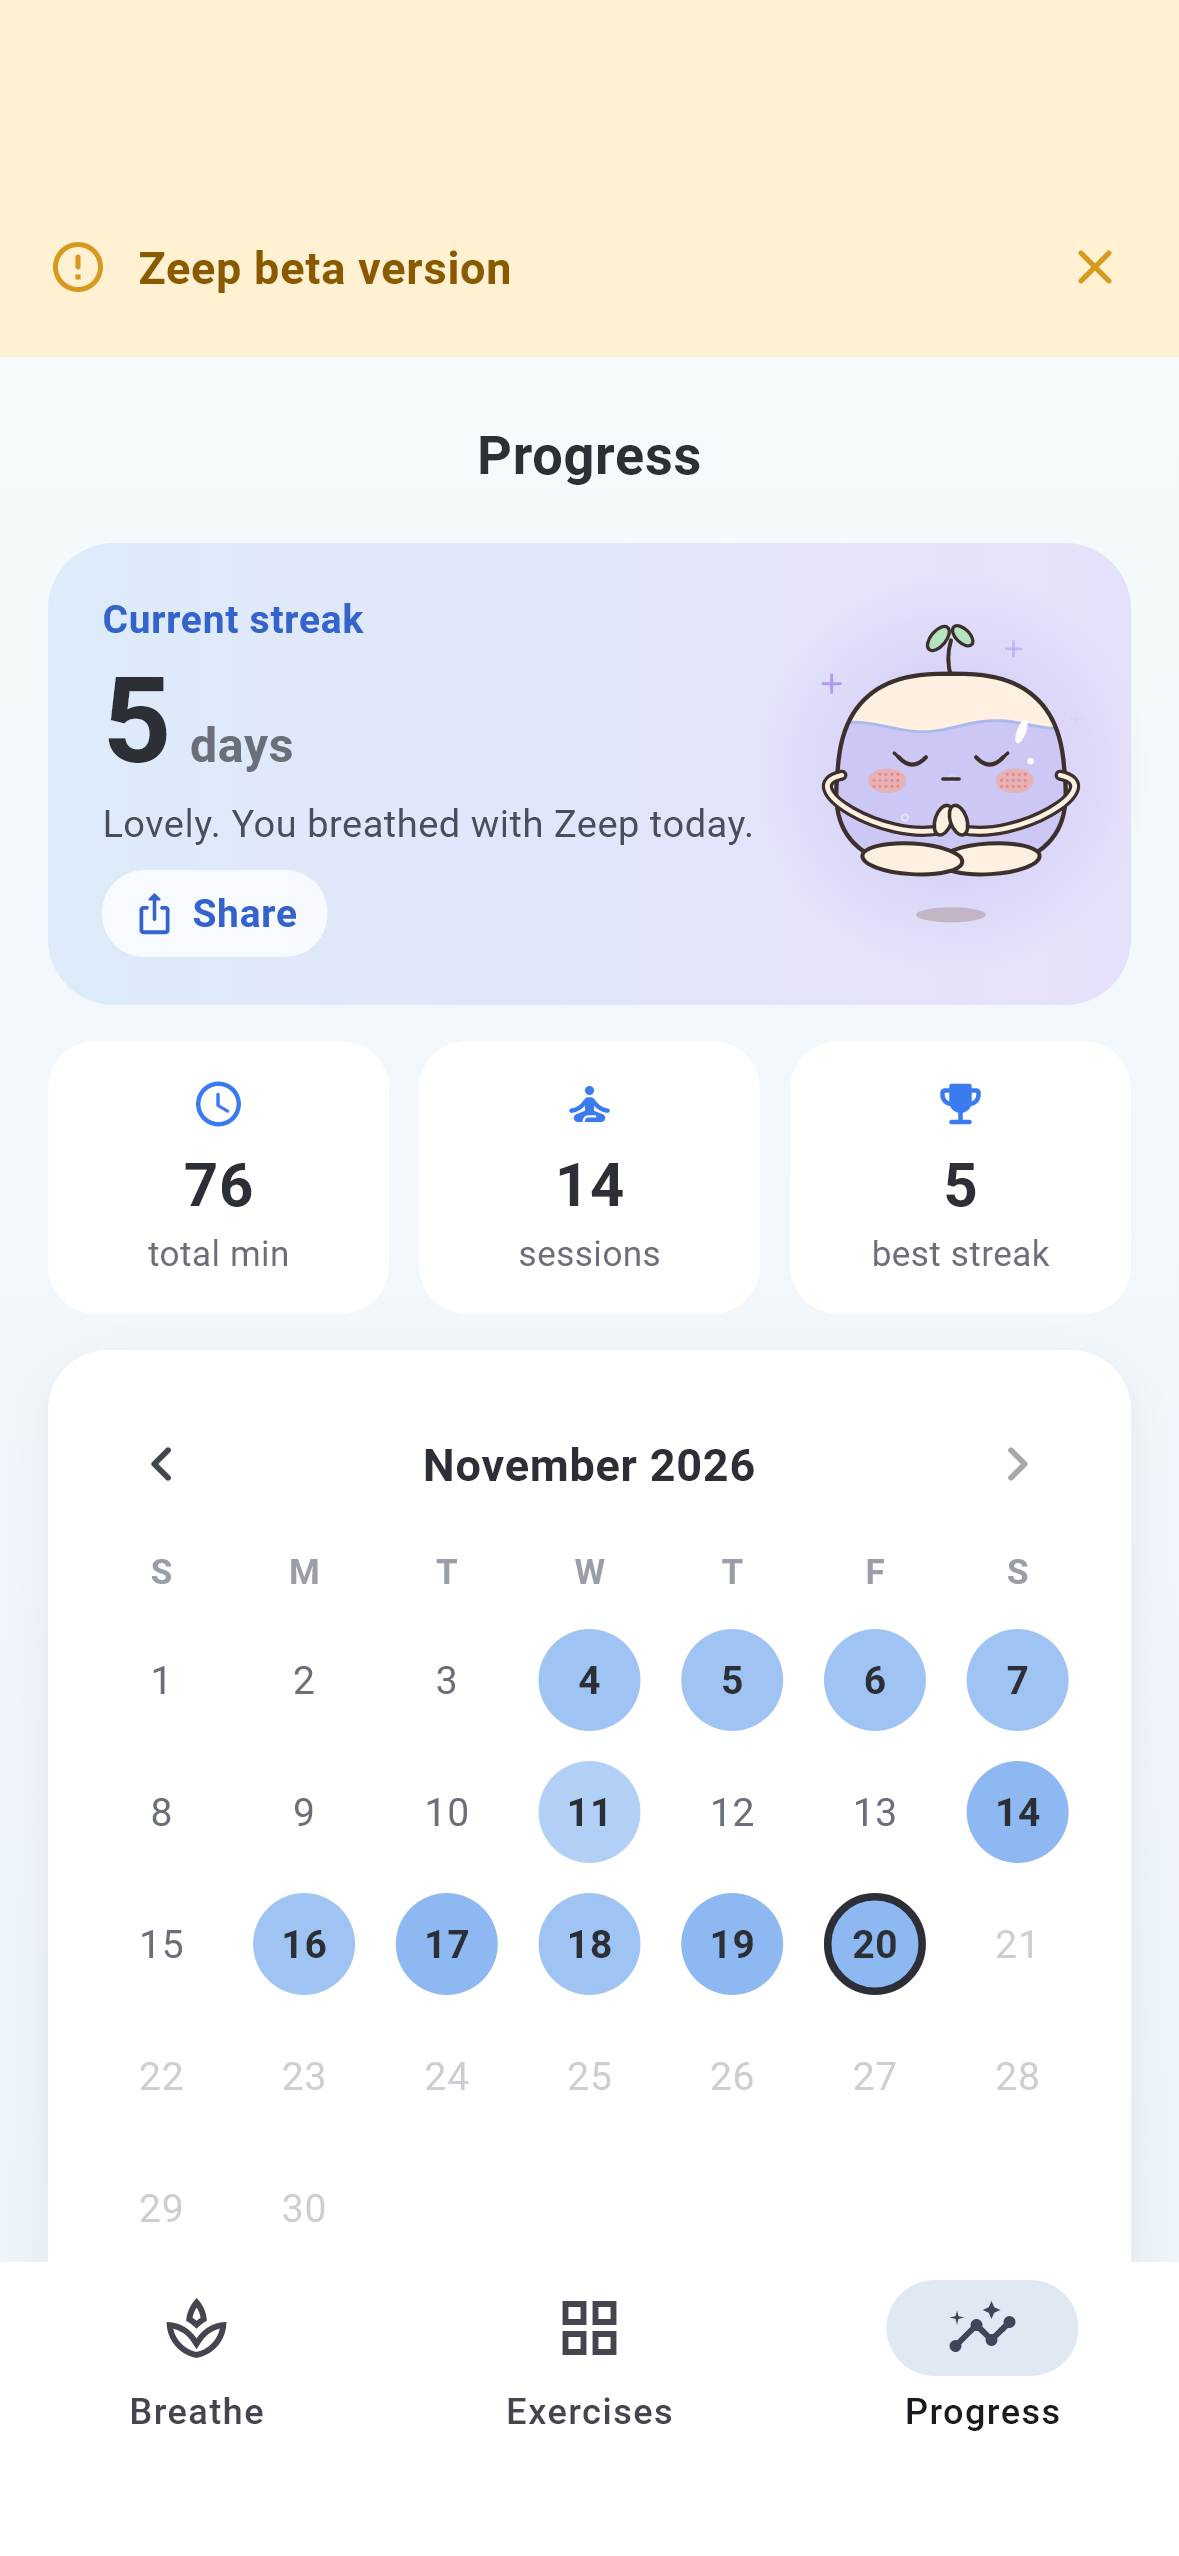
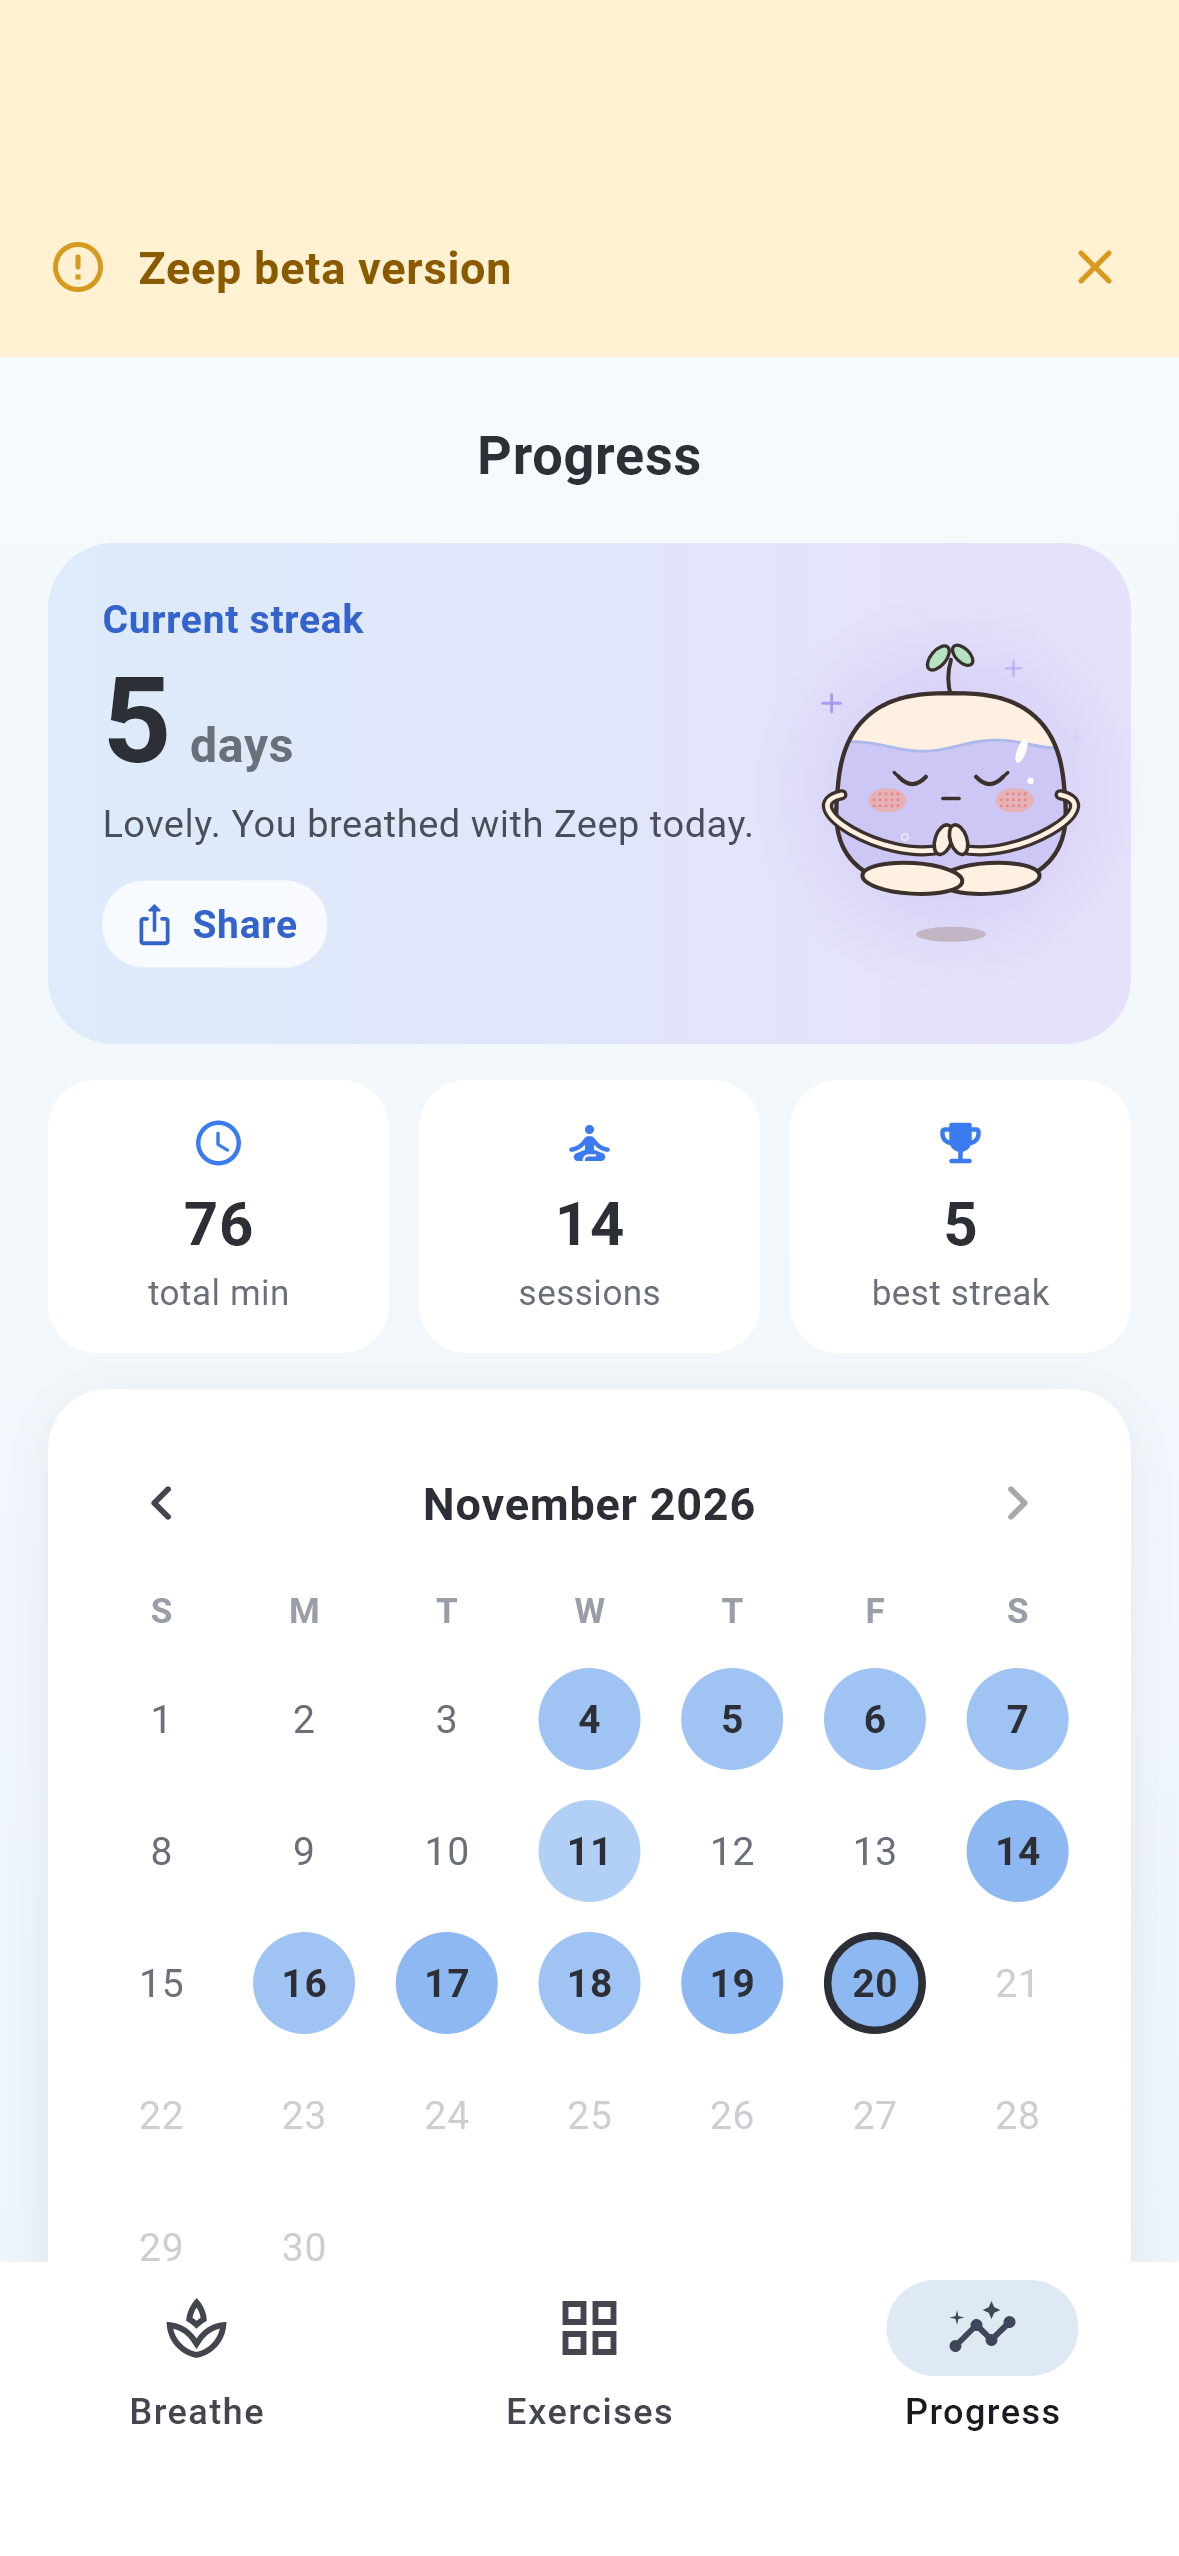
Share cards: QA fixes (screen-reader tap, 48 dp target, rhythm name)
- #1 T3.1 Share: screen readers can activate it (tap action on the
  semantics node); test activates it through semantics
- #2 tap area 48 high, the pill looks the same
- #4 default / custom rhythm shows as 'Breathing · 4 · 2 · 6' on the card
  instead of 'Default'

diff --git a/lib/screens/progress_screen.dart b/lib/screens/progress_screen.dart
@@ -238,36 +238,42 @@ class _StreakCard extends StatelessWidget {
                     ),
                   ),
                   if (onShare != null)
-                    Padding(
-                      padding: const EdgeInsets.only(top: 6),
-                      child: Semantics(
-                        container: true, // its own node, not merged into the card's sentence
-                        button: true,
-                        label: l.shareStreak,
-                        excludeSemantics: true,
-                        child: InkWell(
-                          onTap: onShare,
-                          borderRadius: BorderRadius.circular(14),
-                          child: Container(
-                            padding: const EdgeInsets.symmetric(horizontal: 10, vertical: 5),
-                            decoration: BoxDecoration(
-                              color: withAlpha(Colors.white, 0.75),
-                              borderRadius: BorderRadius.circular(14),
-                            ),
-                            child: Row(
-                              mainAxisSize: MainAxisSize.min,
-                              children: [
-                                const Icon(Icons.ios_share_rounded, size: 15, color: Color(0xFF3463CC)),
-                                const SizedBox(width: 5),
-                                Text(
-                                  l.share,
-                                  style: const TextStyle(
-                                    fontSize: 13,
-                                    fontWeight: FontWeight.w600,
-                                    color: Color(0xFF3463CC),
+                    Semantics(
+                      container: true, // its own node, not merged into the card's sentence
+                      button: true,
+                      label: l.shareStreak,
+                      onTap: onShare, // screen readers activate it (excludeSemantics hides InkWell's)
+                      excludeSemantics: true,
+                      child: InkWell(
+                        onTap: onShare,
+                        borderRadius: BorderRadius.circular(14),
+                        // 48 high to tap (platform minimum); the pill looks the same
+                        child: SizedBox(
+                          height: 48,
+                          child: Align(
+                            alignment: Alignment.centerLeft,
+                            widthFactor: 1,
+                            child: Container(
+                              padding: const EdgeInsets.symmetric(horizontal: 10, vertical: 5),
+                              decoration: BoxDecoration(
+                                color: withAlpha(Colors.white, 0.75),
+                                borderRadius: BorderRadius.circular(14),
+                              ),
+                              child: Row(
+                                mainAxisSize: MainAxisSize.min,
+                                children: [
+                                  const Icon(Icons.ios_share_rounded, size: 15, color: Color(0xFF3463CC)),
+                                  const SizedBox(width: 5),
+                                  Text(
+                                    l.share,
+                                    style: const TextStyle(
+                                      fontSize: 13,
+                                      fontWeight: FontWeight.w600,
+                                      color: Color(0xFF3463CC),
+                                    ),
                                   ),
-                                ),
-                              ],
+                                ],
+                              ),
                             ),
                           ),
                         ),

diff --git a/test/share_entry_test.dart b/test/share_entry_test.dart
@@ -3,6 +3,7 @@
 import 'dart:io';
 
 import 'package:flutter/material.dart';
+import 'package:flutter/semantics.dart';
 import 'package:flutter/services.dart';
 import 'package:flutter_test/flutter_test.dart';
 import 'package:shared_preferences/shared_preferences.dart';
@@ -84,7 +85,7 @@ void main() {
     expect(find.byType(ShareScreen), findsOneWidget);
     expect(find.text(S.en.minutes(1)), findsOneWidget);
     expect(find.text(S.en.cardBreaths(app.engine.breaths)), findsOneWidget);
-    expect(find.text(S.en.defaultRhythm), findsOneWidget);
+    expect(find.text(S.en.cardRhythm('4 · 2 · 6')), findsOneWidget); // not just "Default"
     expect((app.music as CountingMusic).stops, greaterThan(0));
     await t.pumpWidget(const SizedBox());
   });
@@ -115,7 +116,11 @@ void main() {
     await t.pumpWidget(ZeepBreatheApp(controller: app));
     await t.tap(find.text(S.en.tabProgress).last);
     await frames(t, 0.5);
-    await t.tap(find.bySemanticsLabel(S.en.shareStreak));
+    // activate it the way TalkBack / VoiceOver do (QA #1), and it is 48 high
+    final node = t.getSemantics(find.bySemanticsLabel(S.en.shareStreak));
+    expect(node.getSemanticsData().hasAction(SemanticsAction.tap), isTrue);
+    expect(node.rect.height, greaterThanOrEqualTo(48));
+    t.semantics.tap(find.semantics.byLabel(S.en.shareStreak));
     await frames(t, 1);
     expect(find.byType(ShareScreen), findsOneWidget);
     expect(find.text(S.en.cardDays(3)), findsOneWidget);

diff --git a/lib/l10n/strings.dart b/lib/l10n/strings.dart
@@ -222,6 +222,10 @@ class S {
   String get cardStreakLine => _('breathing in a row', 'ฝึกหายใจต่อเนื่อง');
   String cardTotal(int minutes) => _('$minutes min in total', 'รวม $minutes นาที');
   String cardBreaths(int n) => _('$n full breaths', 'หายใจครบ $n รอบ');
+
+  /// The card's mode line for the default or a custom rhythm ("Default"
+  /// alone reads oddly to someone else): "Breathing · 4 · 2 · 6".
+  String cardRhythm(String pattern) => _('Breathing · $pattern', 'ฝึกหายใจ · $pattern');
   String get cardFooter => _('Come breathe with me', 'มาหายใจด้วยกันนะ');
   String get shareText => _('Breathing with Zeep · ZEEP Breathe', 'หายใจไปกับ Zeep · ZEEP Breathe');
   String get shareFailed => _("Couldn't open sharing. Please try again.", 'เปิดเมนูแชร์ไม่ได้ ลองอีกครั้งนะ');

diff --git a/lib/screens/session_screen.dart b/lib/screens/session_screen.dart
@@ -320,7 +320,7 @@ class _FinishedCard extends StatelessWidget {
                         builder: (_) => ShareScreen(
                           achievement: SessionAchievement(
                             app.sessionStart,
-                            exerciseName: exerciseLabel(app.engine.durations, l),
+                            exerciseName: shareModeName(app.engine.durations, l),
                             minutes: mins,
                             breaths: app.engine.breaths,
                           ),
@@ -368,3 +368,7 @@ class _FinishedCard extends StatelessWidget {
     );
   }
 }
+
+/// Mode line on a session share card: the preset's name, or the rhythm for
+/// the default / a custom rhythm.
+String shareModeName(BreathDurations d, S s) => exerciseFor(d)?.name(s) ?? s.cardRhythm(patternOf(d));
